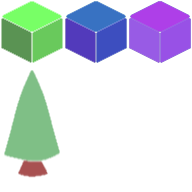
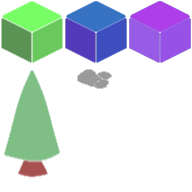
updated rocks... for more decoration

Changed region(s): [[0.4062, 0.3438, 0.5938, 0.4688]]

diff --git a/bundle.js b/bundle.js
@@ -40353,6 +40353,10 @@ var OBJECTS = [
     { x: 6, y: 1, id: 0 },
     { x: 4, y: 4, id: 0 },
     { x: 0, y: 11, id: 0 },
+    { x: 2, y: 8, id: 1 },
+    { x: 3, y: 4, id: 1 },
+    { x: 5, y: 5, id: 1 },
+    { x: 2, y: 6, id: 1 },
 ];
 var ATTRIBUTES = [
     { tileset: 0, frames: [{ x: 0, y: 0 }], frameDelay: 0, type: "land" },
@@ -40362,7 +40366,8 @@ var ATTRIBUTES = [
     { tileset: 0, frames: [{ x: 64, y: 0 }, { x: 64, y: 0 }, { x: 64, y: 0 }, { x: 128, y: 0 }], frameDelay: 300, type: "water" },
 ];
 var OBJECT_DESCRIPTORS = [
-    { tileset: 0, frame: new PIXI.Rectangle(0, 64, 64, 128), type: "tree" }
+    { tileset: 0, frame: new PIXI.Rectangle(0, 64, 64, 128), type: "tree" },
+    { tileset: 0, frame: new PIXI.Rectangle(64, 64, 64, 32), type: "rock" }
 ];
 var img = new Image();
 img.onload = setup;

diff --git a/test.js b/test.js
@@ -40353,6 +40353,10 @@ var OBJECTS = [
     { x: 6, y: 1, id: 0 },
     { x: 4, y: 4, id: 0 },
     { x: 0, y: 11, id: 0 },
+    { x: 2, y: 8, id: 1 },
+    { x: 3, y: 4, id: 1 },
+    { x: 5, y: 5, id: 1 },
+    { x: 2, y: 6, id: 1 },
 ];
 var ATTRIBUTES = [
     { tileset: 0, frames: [{ x: 0, y: 0 }], frameDelay: 0, type: "land" },
@@ -40362,7 +40366,8 @@ var ATTRIBUTES = [
     { tileset: 0, frames: [{ x: 64, y: 0 }, { x: 64, y: 0 }, { x: 64, y: 0 }, { x: 128, y: 0 }], frameDelay: 300, type: "water" },
 ];
 var OBJECT_DESCRIPTORS = [
-    { tileset: 0, frame: new PIXI.Rectangle(0, 64, 64, 128), type: "tree" }
+    { tileset: 0, frame: new PIXI.Rectangle(0, 64, 64, 128), type: "tree" },
+    { tileset: 0, frame: new PIXI.Rectangle(64, 64, 64, 32), type: "rock" }
 ];
 var img = new Image();
 img.onload = setup;

diff --git a/src/test.ts b/src/test.ts
@@ -31,6 +31,10 @@ const OBJECTS: IsoMap.Instance[] = [
   { x:  6, y:  1, id: 0 },  
   { x:  4, y:  4, id: 0 },
   { x:  0, y: 11, id: 0 },
+  { x:  2, y:  8, id: 1 },
+  { x:  3, y:  4, id: 1 },
+  { x:  5, y:  5, id: 1 },
+  { x:  2, y:  6, id: 1 },
 ];
 
 const ATTRIBUTES : IsoTile.Attributes[] = [
@@ -42,7 +46,8 @@ const ATTRIBUTES : IsoTile.Attributes[] = [
 ];
 
 const OBJECT_DESCRIPTORS : IsoObject[] = [
-  { tileset: 0, frame: new PIXI.Rectangle(0, 64, 64, 128), type: "tree" }
+  { tileset: 0, frame: new PIXI.Rectangle(0, 64, 64, 128), type: "tree" },
+  { tileset: 0, frame: new PIXI.Rectangle(64, 64, 64, 32), type: "rock" }
 ];
 
 const img = new Image();
